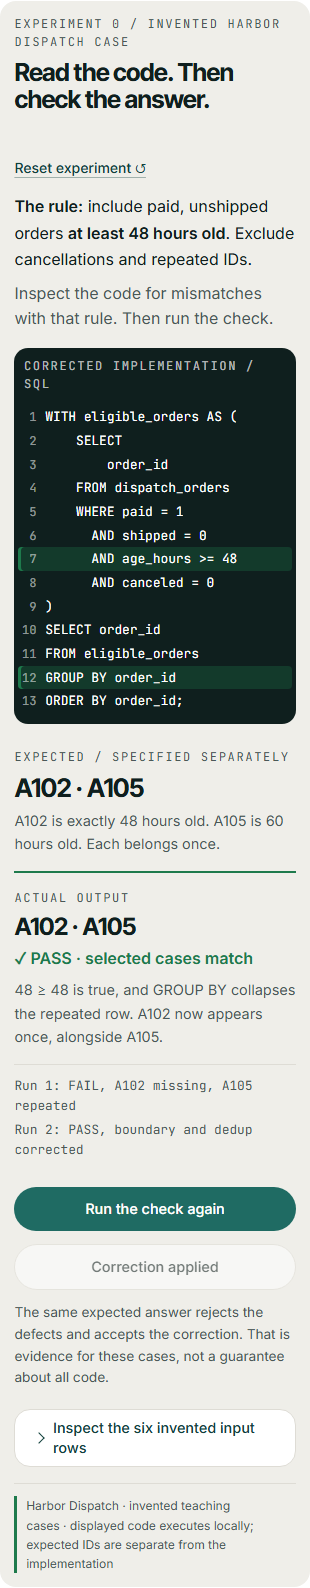
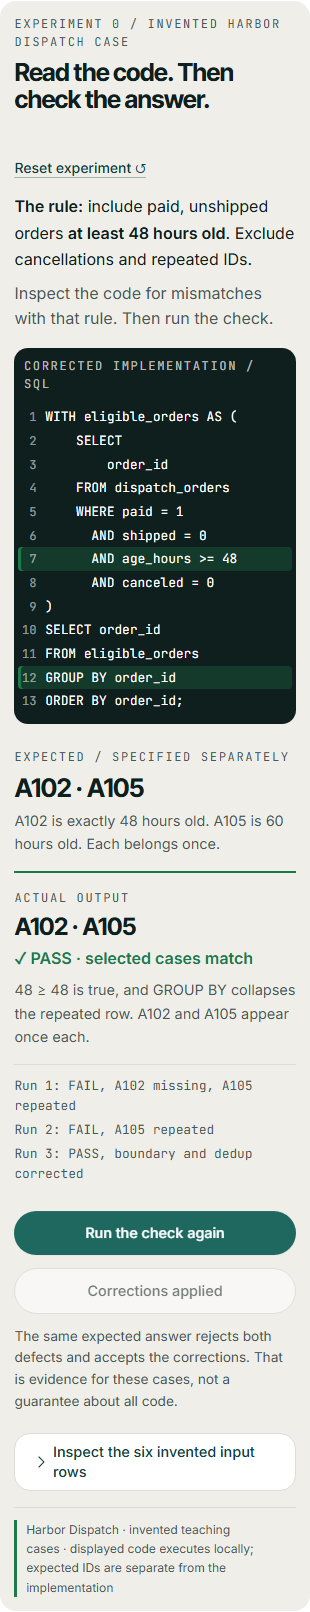
Gate change 3: the two corrections are applied one click at a time (D14)
Aaron, 2026-10-12, on the rendered page. The first click corrects the
boundary and reruns: A102, A105, A105, still a failure, with the lesson that
one correction exposed the second defect. The second click adds GROUP BY and
reruns: pass. Three runs stay in the history. dispatch-code.js carries
buggy, partial and fixed, each one edit from the last; the gate asserts the
derivations, every state's output and marked lines, and that SQLite executed
all three displayed strings. Renders added for the intermediate state.

Changed region(s): [[0.029, 0.0, 0.9581, 0.9874], [0.7258, 0.8948, 0.8129, 0.9257]]

diff --git a/docs/assets/playbook.js b/docs/assets/playbook.js
@@ -20,7 +20,10 @@
   const chips = values => values.map(id => `<span class="order-chip ${scenario.expectedIds.includes(id) ? '' : 'unexpected'}">${id}${scenario.expectedIds.includes(id) ? '' : ' ×'}</span>`).join('') || '<span>No orders</span>';
 
   /* ---------- Experiment 0: the code check ---------- */
-  let openingFixed = false, openingRuns = [], sqlEngine = null, sqlLoading = null, engineFailed = false;
+  // openingStage: 0 = defective query, 1 = boundary corrected, 2 = GROUP BY added. Each
+  // correction is one click and one rerun, so the history shows what each fix changed.
+  let openingStage = 0, openingRuns = [], sqlEngine = null, sqlLoading = null, engineFailed = false;
+  const QUERIES = () => [globalThis.DispatchExample.buggy, globalThis.DispatchExample.partial, globalThis.DispatchExample.fixed];
   const runButton = $('run-opening');
   const engineSrc = runButton.dataset.engine;
 
@@ -39,14 +42,14 @@
   }
 
   function renderOpening(loading) {
-    const query = openingFixed ? globalThis.DispatchExample.fixed : globalThis.DispatchExample.buggy;
-    // After a run, the boundary line is marked in both states; the GROUP BY line exists only in the
-    // corrected state. In the defective state the missing clause has no line to mark.
+    const query = QUERIES()[openingStage];
+    // After a run, the boundary line is marked in every state; the GROUP BY line exists only once it
+    // has been added. Before that, the missing clause has no line to mark.
     $('opening-code').innerHTML = query.split('\n').map(line => `<span class="code-line ${openingRuns.length && (line.includes('age_hours') || line.startsWith('GROUP BY')) ? 'code-change' : ''}">${escapeCode(line) || ' '}</span>`).join('');
-    $('code-state').textContent = openingFixed ? 'CORRECTED IMPLEMENTATION / SQL' : 'IMPLEMENTATION / SQL';
-    document.querySelector('.code-pane').classList.toggle('corrected', openingFixed);
-    $('fix-opening').disabled = !openingRuns.length || openingFixed || !!loading || engineFailed;
-    $('fix-opening').textContent = openingFixed ? 'Correction applied' : 'Correct and rerun';
+    $('code-state').textContent = ['IMPLEMENTATION / SQL', 'BOUNDARY CORRECTED / SQL', 'CORRECTED IMPLEMENTATION / SQL'][openingStage];
+    document.querySelector('.code-pane').classList.toggle('corrected', openingStage > 0);
+    $('fix-opening').disabled = !openingRuns.length || openingStage === 2 || !!loading || engineFailed;
+    $('fix-opening').textContent = ['Correct the boundary and rerun', 'Add the GROUP BY and rerun', 'Corrections applied'][openingStage];
     runButton.disabled = !!loading || engineFailed;
     runButton.setAttribute('aria-busy', loading ? 'true' : 'false');
     runButton.textContent = loading ? 'Loading the SQL engine…' : openingRuns.length ? 'Run the check again' : 'Run the known-answer check';
@@ -60,15 +63,24 @@
       return;
     }
     const latest = openingRuns.at(-1);
+    const verdict = latest.pass ? '✓ PASS · selected cases match' : latest.stage === 0 ? '× FAIL · same count, wrong orders' : '× FAIL · A105 repeated';
+    const explain = latest.pass
+      ? '48 ≥ 48 is true, and GROUP BY collapses the repeated row. A102 and A105 appear once each.'
+      : latest.stage === 0
+        ? '48 &gt; 48 is false, so A102 is excluded, and nothing collapses the repeated A105. Two rows match the expected count and not the expected IDs.'
+        : 'A102 now appears, but nothing collapses the repeated A105. Three rows against the expected two.';
+    const label = r => r.pass ? 'PASS, boundary and dedup corrected' : r.stage === 0 ? 'FAIL, A102 missing, A105 repeated' : 'FAIL, A105 repeated';
     result.className = 'opening-result ' + (latest.pass ? 'success' : 'warning');
-    result.innerHTML = `<span class="mini-label">ACTUAL OUTPUT</span><strong>${latest.actual.join(' · ') || 'No orders'}</strong><b>${latest.pass ? '✓ PASS · selected cases match' : '× FAIL · same count, wrong orders'}</b><p>${latest.pass ? '48 ≥ 48 is true, and GROUP BY collapses the repeated row. A102 now appears once, alongside A105.' : '48 &gt; 48 is false, so A102 is excluded, and nothing collapses the repeated A105. Two rows match the expected count and not the expected IDs.'}</p><ol class="opening-history" aria-label="Runs in this experiment">${openingRuns.map((r, i) => `<li>Run ${i + 1}: ${r.pass ? 'PASS, boundary and dedup corrected' : 'FAIL, A102 missing, A105 repeated'}</li>`).join('')}</ol>`;
+    result.innerHTML = `<span class="mini-label">ACTUAL OUTPUT</span><strong>${latest.actual.join(' · ') || 'No orders'}</strong><b>${verdict}</b><p>${explain}</p><ol class="opening-history" aria-label="Runs in this experiment">${openingRuns.map((r, i) => `<li>Run ${i + 1}: ${label(r)}</li>`).join('')}</ol>`;
     $('opening-lesson').textContent = latest.pass
-      ? 'The same expected answer rejects the defects and accepts the correction. That is evidence for these cases, not a guarantee about all code.'
-      : 'Line 7 is easy to inspect here, and the missing GROUP BY has no line to inspect at all. Now imagine 400 lines across six files, written overnight by an agent, and a review on Friday afternoon. The same known-answer check still catches both errors.';
+      ? 'The same expected answer rejects both defects and accepts the corrections. That is evidence for these cases, not a guarantee about all code.'
+      : latest.stage === 0
+        ? 'Line 7 is easy to inspect here, and the missing GROUP BY has no line to inspect at all. Now imagine 400 lines across six files, written overnight by an agent, and a review on Friday afternoon. The same known-answer check still catches both errors.'
+        : 'One correction fixed the boundary and exposed the second defect: the count moved from two to three. A check that compares IDs and multiplicity says what remains.';
   }
 
   function executeOpening(engine) {
-    const query = openingFixed ? globalThis.DispatchExample.fixed : globalThis.DispatchExample.buggy;
+    const stage = openingStage, query = QUERIES()[stage];
     const db = new engine.Database();
     let actual;
     try {
@@ -78,7 +90,7 @@
     } finally { db.close(); }
     const expected = [...scenario.expectedIds].sort();
     const pass = actual.length === expected.length && actual.every((id, i) => id === expected[i]);
-    openingRuns.push({actual, pass});
+    openingRuns.push({actual, pass, stage});
     renderOpening();
   }
 
@@ -94,8 +106,8 @@
   }
 
   on('run-opening', 'click', runOpening);
-  on('fix-opening', 'click', () => { openingFixed = true; runOpening(); });
-  on('reset-opening', 'click', () => { openingFixed = false; openingRuns = []; renderOpening(); });
+  on('fix-opening', 'click', () => { if (openingStage < 2) { openingStage += 1; runOpening(); } });
+  on('reset-opening', 'click', () => { openingStage = 0; openingRuns = []; renderOpening(); });
 
   /* ---------- Experiment 1: the queue ---------- */
   const compute = ({boundary = true, canceled = true, unique = true} = {}) => {

diff --git a/docs/index.html b/docs/index.html
@@ -135,7 +135,7 @@
 )
 SELECT order_id
 FROM eligible_orders
-ORDER BY order_id;</code></pre></div><div class="answer-pane"><span class="mini-label">EXPECTED / SPECIFIED SEPARATELY</span><strong>A102 · A105</strong><p>A102 is exactly 48 hours old. A105 is 60 hours old. Each belongs once.</p><div id="opening-result" class="opening-result" aria-live="polite"><b>Not run yet</b><p>The expected IDs are fixed before this implementation is checked.</p></div></div></div><div class="opening-actions"><button type="button" class="btn btn-primary" id="run-opening" data-engine="vendor/sql.js/sql-asm.js">Run the known-answer check</button><button type="button" class="btn btn-outline" id="fix-opening" disabled>Correct and rerun</button></div><p class="chart-limit" id="opening-lesson">The check compares order IDs and multiplicity, not just the total. Reading and testing supply different evidence.</p><details class="note"><summary>Inspect the six invented input rows</summary><div class="note-body"><div class="table-wrap"><table><thead><tr><th scope="col">Order</th><th scope="col">Age</th><th scope="col">State</th><th scope="col">Purpose</th></tr></thead><tbody><tr><td>A101</td><td>47 hours</td><td>Paid, unshipped</td><td>One hour too early</td></tr><tr><td>A102</td><td>48 hours</td><td>Paid, unshipped</td><td>Exactly at the boundary</td></tr><tr><td>A103</td><td>72 hours</td><td>Canceled</td><td>Canceled, despite its age</td></tr><tr><td>A104</td><td>60 hours</td><td>Shipped</td><td>Already shipped</td></tr><tr><td>A105</td><td>60 hours</td><td>Paid, unshipped</td><td>Eligible order</td></tr><tr><td>A105</td><td>60 hours</td><td>Paid, unshipped</td><td>Repeated copy of the same order</td></tr></tbody></table></div></div></details><div class="provenance" role="note" aria-label="Provenance"><span class="segs"><span class="seg">Harbor Dispatch</span><span class="seg">invented teaching cases</span><span class="seg">displayed code executes locally; expected IDs are separate from the implementation</span></span></div></figure>
+ORDER BY order_id;</code></pre></div><div class="answer-pane"><span class="mini-label">EXPECTED / SPECIFIED SEPARATELY</span><strong>A102 · A105</strong><p>A102 is exactly 48 hours old. A105 is 60 hours old. Each belongs once.</p><div id="opening-result" class="opening-result" aria-live="polite"><b>Not run yet</b><p>The expected IDs are fixed before this implementation is checked.</p></div></div></div><div class="opening-actions"><button type="button" class="btn btn-primary" id="run-opening" data-engine="vendor/sql.js/sql-asm.js">Run the known-answer check</button><button type="button" class="btn btn-outline" id="fix-opening" disabled>Correct the boundary and rerun</button></div><p class="chart-limit" id="opening-lesson">The check compares order IDs and multiplicity, not just the total. Reading and testing supply different evidence.</p><details class="note"><summary>Inspect the six invented input rows</summary><div class="note-body"><div class="table-wrap"><table><thead><tr><th scope="col">Order</th><th scope="col">Age</th><th scope="col">State</th><th scope="col">Purpose</th></tr></thead><tbody><tr><td>A101</td><td>47 hours</td><td>Paid, unshipped</td><td>One hour too early</td></tr><tr><td>A102</td><td>48 hours</td><td>Paid, unshipped</td><td>Exactly at the boundary</td></tr><tr><td>A103</td><td>72 hours</td><td>Canceled</td><td>Canceled, despite its age</td></tr><tr><td>A104</td><td>60 hours</td><td>Shipped</td><td>Already shipped</td></tr><tr><td>A105</td><td>60 hours</td><td>Paid, unshipped</td><td>Eligible order</td></tr><tr><td>A105</td><td>60 hours</td><td>Paid, unshipped</td><td>Repeated copy of the same order</td></tr></tbody></table></div></div></details><div class="provenance" role="note" aria-label="Provenance"><span class="segs"><span class="seg">Harbor Dispatch</span><span class="seg">invented teaching cases</span><span class="seg">displayed code executes locally; expected IDs are separate from the implementation</span></span></div></figure>
   </div>
 </section>
 

diff --git a/docs/assets/dispatch-code.js b/docs/assets/dispatch-code.js
@@ -1,8 +1,8 @@
 /* Displayed SQL and executed SQL share these exact query strings.
    The defective query carries two rule mismatches: `>` where the rule says
    "at least" (line 7), and no clause collapsing repeated order IDs. The
-   correction changes the operator and adds GROUP BY order_id; nothing else
-   differs (decision record D14). */
+   corrections are applied one at a time: `partial` fixes the operator only,
+   `fixed` adds GROUP BY order_id. Nothing else differs (decision record D14). */
 (() => {
   const buggy = `WITH eligible_orders AS (
     SELECT
@@ -16,8 +16,7 @@
 SELECT order_id
 FROM eligible_orders
 ORDER BY order_id;`;
-  const fixed = buggy
-    .replace('age_hours > 48', 'age_hours >= 48')
-    .replace('FROM eligible_orders\nORDER BY order_id;', 'FROM eligible_orders\nGROUP BY order_id\nORDER BY order_id;');
-  globalThis.DispatchExample=Object.freeze({buggy,fixed});
+  const partial = buggy.replace('age_hours > 48', 'age_hours >= 48');
+  const fixed = partial.replace('FROM eligible_orders\nORDER BY order_id;', 'FROM eligible_orders\nGROUP BY order_id\nORDER BY order_id;');
+  globalThis.DispatchExample=Object.freeze({buggy,partial,fixed});
 })();

diff --git a/checks/check_page.py b/checks/check_page.py
@@ -116,27 +116,40 @@ def check(browser, url, width, errors, renders, is_file):
     a(page.locator("#opening-result>strong").inner_text() == "A105 · A105", "actual defective output (two rows, same count as expected)")
     a(page.locator(".code-change").count() == 1, "only the boundary line is marked in the defective state; a missing clause has no line")
     a(page.evaluate("() => document.getElementById('opening-code').innerText.replace(/\\s/g,'')===globalThis.DispatchExample.buggy.replace(/\\s/g,'')"), "displayed defective code differs from the executed string")
-    a(page.evaluate("() => DispatchExample.buggy.replace('age_hours > 48','age_hours >= 48').replace('FROM eligible_orders\\nORDER BY order_id;','FROM eligible_orders\\nGROUP BY order_id\\nORDER BY order_id;')===DispatchExample.fixed"), "correction changes more than the boundary operator and the GROUP BY clause")
+    a(page.evaluate("() => DispatchExample.buggy.replace('age_hours > 48','age_hours >= 48')===DispatchExample.partial && DispatchExample.partial.replace('FROM eligible_orders\\nORDER BY order_id;','FROM eligible_orders\\nGROUP BY order_id\\nORDER BY order_id;')===DispatchExample.fixed"), "the two corrections change more than the operator and the GROUP BY clause")
     a(page.evaluate("() => DispatchExample.buggy.split('\\n')[6].trim()==='AND age_hours > 48'"), "line 7 is not the boundary line")
+    a(page.locator("#fix-opening").inner_text() == "Correct the boundary and rerun" and not page.locator("#fix-opening").is_disabled(), "first correction offered after a run")
     # Record what SQLite actually executes from here on (the engine is cached by sql.js).
     page.evaluate("async () => { const e = await initSqlJs(); window.__sql = []; const exec = e.Database.prototype.exec; e.Database.prototype.exec = function (q, ...r) { if (q.startsWith('WITH eligible_orders')) window.__sql.push(q); return exec.call(this, q, ...r); }; }")
+    # First correction: the boundary only. Still fails, now with three rows.
     page.locator("#fix-opening").click()
-    page.wait_for_function("() => document.querySelector('#opening-result').innerText.includes('PASS')")
-    a("PASS \u00b7 selected cases match" in page.locator("#opening-result").inner_text(), "correction passes the known answer")
-    a(page.locator("#opening-result>strong").inner_text() == "A102 \u00b7 A105", "corrected IDs")
-    a(page.locator(".opening-history li").count() == 2, "original failure not retained")
-    a(page.locator(".code-change").count() == 2, "both corrected lines marked (boundary and GROUP BY)")
-    a(page.locator("#fix-opening").is_disabled() and page.locator("#fix-opening").inner_text() == "Correction applied", "correction button state after fix")
+    page.wait_for_function("() => document.querySelector('#opening-result').innerText.includes('A105 repeated') && document.querySelectorAll('.opening-history li').length === 2")
+    a(page.locator("#opening-result>strong").inner_text() == "A102 \u00b7 A105 \u00b7 A105", "boundary-only output is A102, A105, A105")
+    a("FAIL \u00b7 A105 repeated" in page.locator("#opening-result").inner_text(), "boundary-only run still fails on the repeated row")
+    a(page.locator(".code-change").count() == 1 and "BOUNDARY CORRECTED" in page.locator("#code-state").inner_text(), "boundary-only state marks line 7 alone")
+    a("exposed the second defect" in page.locator("#opening-lesson").inner_text(), "boundary-only lesson")
+    a(page.evaluate("() => document.getElementById('opening-code').innerText.replace(/\\s/g,'')===globalThis.DispatchExample.partial.replace(/\\s/g,'')"), "displayed boundary-corrected code differs from the executed string")
+    a(page.locator("#fix-opening").inner_text() == "Add the GROUP BY and rerun" and not page.locator("#fix-opening").is_disabled(), "second correction offered")
     if renders and not is_file and width in (390, 1440):
         page.add_style_tag(content="#site-header{position:static !important}")
+        page.locator("#opening-experiment").screenshot(path=str(RENDERS / ("opening-boundary-%d.png" % width)))
+    # Second correction: GROUP BY. Passes.
+    page.locator("#fix-opening").click()
+    page.wait_for_function("() => document.querySelector('#opening-result').innerText.includes('PASS')")
+    a("PASS \u00b7 selected cases match" in page.locator("#opening-result").inner_text(), "both corrections pass the known answer")
+    a(page.locator("#opening-result>strong").inner_text() == "A102 \u00b7 A105", "corrected IDs")
+    a(page.locator(".opening-history li").count() == 3, "all three runs retained")
+    a(page.locator(".code-change").count() == 2, "both corrected lines marked (boundary and GROUP BY)")
+    a(page.locator("#fix-opening").is_disabled() and page.locator("#fix-opening").inner_text() == "Corrections applied", "correction button state after both fixes")
+    if renders and not is_file and width in (390, 1440):
         page.locator("#opening-experiment").screenshot(path=str(RENDERS / ("opening-fixed-%d.png" % width)))
     a(page.evaluate("() => document.getElementById('opening-code').innerText.replace(/\\s/g,'')===globalThis.DispatchExample.fixed.replace(/\\s/g,'')"), "displayed corrected code differs from the executed string")
     page.locator("#reset-opening").click()
-    a("Not run yet" in page.locator("#opening-result").inner_text() and page.locator(".code-change").count() == 0, "opening reset")
+    a("Not run yet" in page.locator("#opening-result").inner_text() and page.locator(".code-change").count() == 0 and page.locator("#fix-opening").inner_text() == "Correct the boundary and rerun", "opening reset")
     page.locator("#run-opening").click()
     page.wait_for_function("() => document.querySelector('#opening-result').innerText.includes('FAIL')")
-    executed = page.evaluate("() => [window.__sql, DispatchExample.fixed, DispatchExample.buggy]")
-    a(executed[0] == [executed[1], executed[2]], "displayed queries are not what SQLite executed")
+    executed = page.evaluate("() => [window.__sql, DispatchExample.partial, DispatchExample.fixed, DispatchExample.buggy]")
+    a(executed[0] == [executed[1], executed[2], executed[3]], "displayed queries are not what SQLite executed")
     if renders and not is_file and width in (390, 1440):
         page.locator("#opening-experiment").screenshot(path=str(RENDERS / ("opening-failed-%d.png" % width)))
     page.locator("#reset-opening").click()
@@ -213,7 +226,7 @@ def check(browser, url, width, errors, renders, is_file):
             page.locator("#reset-queue").click()
     page.close()
     return {"mode": "file" if is_file else "http", "width": width, "scrollWidth": state["scrollWidth"], "minExhibitFont": state["minExhibitFont"], "minLabFont": state["minLabFont"],
-            "openingStates": 3, "queueCases": 8, "checkerCases": 4, "releaseCases": 32, "sqlExecutionsObserved": 2}
+            "openingStates": 4, "queueCases": 8, "checkerCases": 4, "releaseCases": 32, "sqlExecutionsObserved": 3}
 
 
 def main():

diff --git a/src/build_page.py b/src/build_page.py
@@ -213,7 +213,7 @@ def widgets(scenario, buggy):
         '<p>A102 is exactly 48 hours old. A105 is 60 hours old. Each belongs once.</p>'
         '<div id="opening-result" class="opening-result" aria-live="polite"><b>Not run yet</b><p>The expected IDs are fixed before this implementation is checked.</p></div></div></div>'
         '<div class="opening-actions"><button type="button" class="btn btn-primary" id="run-opening" data-engine="%s">Run the known-answer check</button>'
-        '<button type="button" class="btn btn-outline" id="fix-opening" disabled>Correct and rerun</button></div>'
+        '<button type="button" class="btn btn-outline" id="fix-opening" disabled>Correct the boundary and rerun</button></div>'
         '<p class="chart-limit" id="opening-lesson">The check compares order IDs and multiplicity, not just the total. Reading and testing supply different evidence.</p>'
         '%s%s</figure>'
         % (reset("reset-opening"), esc(buggy), ENGINE,
@@ -311,7 +311,7 @@ def md_widgets(scenario, buggy, fixed):
     raw_rows = [[r["id"], "%d hours" % r["age"], "Canceled" if r["canceled"] else "Shipped" if r["shipped"] else "Paid, unshipped", r["note"]] for r in scenario["rows"]]
     return {
         "opening": ("\nFictional Harbor Dispatch rule: paid, unshipped orders at least 48 hours old; exclude canceled orders and repeated IDs. Expected IDs, specified separately: A102 and A105.\n\n```sql\n"
-                    + buggy + "\n```\n\nExecuting this SQL query on the six cases returns A105 twice. The count matches the expected two and the IDs do not: 48 > 48 is false, so A102 is excluded, and nothing collapses the repeated A105 row. Correcting > to >= and adding GROUP BY order_id returns A102 and A105 once each. Line 7 is easy to inspect here, and the missing GROUP BY has no line to inspect at all. Now imagine 400 lines across six files, written overnight by an agent, and a review on Friday afternoon. The same known-answer check still catches both errors.\n\nCorrected query:\n\n```sql\n"
+                    + buggy + "\n```\n\nExecuting this SQL query on the six cases returns A105 twice. The count matches the expected two and the IDs do not: 48 > 48 is false, so A102 is excluded, and nothing collapses the repeated A105 row. Correcting > to >= alone returns A102, A105 and A105: three rows, A105 still repeated. Adding GROUP BY order_id then returns A102 and A105 once each. Line 7 is easy to inspect here, and the missing GROUP BY has no line to inspect at all. Now imagine 400 lines across six files, written overnight by an agent, and a review on Friday afternoon. The same known-answer check still catches both errors.\n\nCorrected query, after both corrections:\n\n```sql\n"
                     + fixed + "\n```\n" + md_table(["Order", "Age", "State", "Purpose"], raw_rows)),
         "ceremony": md_table(["Level", "Regulated software (the V with full ceremony)", "AI-assisted analytics (the same V)"], CEREMONY_ROWS)
                     + "\nThe structure survived. The records moved into the repository. A commit identifies the version; the acceptance record names the decision and the owner.\n",
@@ -372,7 +372,8 @@ def build():
     scenario = json.loads(SCENARIO.read_text(encoding="utf-8"))
     js = CODE.read_text(encoding="utf-8")
     buggy = re.search(r"const buggy = `(.*?)`;", js, re.S).group(1)
-    fixed = buggy.replace("age_hours > 48", "age_hours >= 48").replace("FROM eligible_orders\nORDER BY order_id;", "FROM eligible_orders\nGROUP BY order_id\nORDER BY order_id;")
+    partial = buggy.replace("age_hours > 48", "age_hours >= 48")
+    fixed = partial.replace("FROM eligible_orders\nORDER BY order_id;", "FROM eligible_orders\nGROUP BY order_id\nORDER BY order_id;")
     assert buggy.count("age_hours > 48") == 1 and "GROUP BY" not in buggy and fixed.count("GROUP BY order_id") == 1
     assert buggy.split("\n")[6].strip() == "AND age_hours > 48", "line 7 must be the boundary line; the lesson text names it"
     manuscript = MANUSCRIPT.read_text(encoding="utf-8")
@@ -447,7 +448,7 @@ def build():
         "| `content/manuscript.md` | The accepted v5 manuscript. Every sentence on the page comes from here, verbatim. |\n"
         "| `docs/index.html` | The page, generated by `src/build_page.py` from the manuscript and `docs/template.html`. Published to the URL above from `main`. |\n"
         "| `docs/assets/dispatch-scenario.json` | The six invented input rows and the expected IDs, specified separately from any implementation. |\n"
-        "| `docs/assets/dispatch-code.js` | The two SQL query strings. The defective one has `>` where the rule says at least, and no clause collapsing repeated IDs; the correction changes the operator and adds `GROUP BY order_id`, nothing else. |\n"
+        "| `docs/assets/dispatch-code.js` | The two SQL query strings. The defective one has `>` where the rule says at least, and no clause collapsing repeated IDs; the corrections are applied one click at a time, the operator first, then `GROUP BY order_id`, and nothing else changes. |\n"
         "| `docs/assets/playbook.js`, `playbook.css` | The experiments and the page's own styles. The SQLite engine loads on the first click of the run button. |\n"
         "| `docs/vendor/sql.js/` | sql.js 1.14.2 (SQLite compiled to asm.js), its MIT license and `provenance.json` with the archive integrity and file hashes. |\n"
         "| `docs/assets/felix.src.css`, `felix.css` | The Felix design system's tokens and components, compiled by the Tailwind v4 CLI. Felix itself is referenced, not copied; see the decision record. |\n"

diff --git a/README.md b/README.md
@@ -31,9 +31,9 @@ FROM eligible_orders
 ORDER BY order_id;
 ```
 
-Executing this SQL query on the six cases returns A105 twice. The count matches the expected two and the IDs do not: 48 > 48 is false, so A102 is excluded, and nothing collapses the repeated A105 row. Correcting > to >= and adding GROUP BY order_id returns A102 and A105 once each. Line 7 is easy to inspect here, and the missing GROUP BY has no line to inspect at all. Now imagine 400 lines across six files, written overnight by an agent, and a review on Friday afternoon. The same known-answer check still catches both errors.
+Executing this SQL query on the six cases returns A105 twice. The count matches the expected two and the IDs do not: 48 > 48 is false, so A102 is excluded, and nothing collapses the repeated A105 row. Correcting > to >= alone returns A102, A105 and A105: three rows, A105 still repeated. Adding GROUP BY order_id then returns A102 and A105 once each. Line 7 is easy to inspect here, and the missing GROUP BY has no line to inspect at all. Now imagine 400 lines across six files, written overnight by an agent, and a review on Friday afternoon. The same known-answer check still catches both errors.
 
-Corrected query:
+Corrected query, after both corrections:
 
 ```sql
 WITH eligible_orders AS (
@@ -213,7 +213,7 @@ Across ten modules, the checks developed build by build. The [Build by Build mat
 | `content/manuscript.md` | The accepted v5 manuscript. Every sentence on the page comes from here, verbatim. |
 | `docs/index.html` | The page, generated by `src/build_page.py` from the manuscript and `docs/template.html`. Published to the URL above from `main`. |
 | `docs/assets/dispatch-scenario.json` | The six invented input rows and the expected IDs, specified separately from any implementation. |
-| `docs/assets/dispatch-code.js` | The two SQL query strings. The defective one has `>` where the rule says at least, and no clause collapsing repeated IDs; the correction changes the operator and adds `GROUP BY order_id`, nothing else. |
+| `docs/assets/dispatch-code.js` | The two SQL query strings. The defective one has `>` where the rule says at least, and no clause collapsing repeated IDs; the corrections are applied one click at a time, the operator first, then `GROUP BY order_id`, and nothing else changes. |
 | `docs/assets/playbook.js`, `playbook.css` | The experiments and the page's own styles. The SQLite engine loads on the first click of the run button. |
 | `docs/vendor/sql.js/` | sql.js 1.14.2 (SQLite compiled to asm.js), its MIT license and `provenance.json` with the archive integrity and file hashes. |
 | `docs/assets/felix.src.css`, `felix.css` | The Felix design system's tokens and components, compiled by the Tailwind v4 CLI. Felix itself is referenced, not copied; see the decision record. |

diff --git a/CLAUDE.md b/CLAUDE.md
@@ -41,10 +41,12 @@ failure, because the author block may legitimately carry none.
 derived from the query under test.** The displayed SQL is the executed SQL:
 `docs/assets/dispatch-code.js` holds both query strings. The defective one
 carries two rule mismatches, `>` where the rule says at least (line 7, and
-the lesson text names that line) and no clause collapsing repeated IDs; the
-correction changes the operator and adds `GROUP BY order_id`, and nothing
-else differs (D14). The defective run returns two rows, the expected count,
-with the wrong IDs. The check compares IDs and multiplicity, not counts. The defective line is not highlighted until
+the lesson text names that line) and no clause collapsing repeated IDs. The
+corrections are applied one click at a time, each click a rerun: the
+operator first (three rows, A105 still repeated), then `GROUP BY order_id`
+(pass). Nothing else differs between the three strings (D14). The defective
+run returns two rows, the expected count, with the wrong IDs. The check
+compares IDs and multiplicity, not counts. The defective line is not highlighted until
 a run; the correction button is disabled until a run; failed and corrected
 runs both stay in the visible history; each experiment resets independently.
 

diff --git a/governance/decision-record.md b/governance/decision-record.md
@@ -269,8 +269,17 @@ gate's assertions, the README's generated opening text, `CLAUDE.md`. Not
 changed: the scenario, the expected IDs, the manuscript, the exhibits, the
 panel record (Experiment 0 is outside its scope).
 
+*Amended the same day, also at the gate:* the two corrections are applied
+**one click at a time**, each click a rerun. The first click fixes the
+boundary only and the check still fails, now with three rows (A102, A105,
+A105); the second adds GROUP BY and passes. Three runs stay in the history,
+so the reader sees that one correction exposed the second defect rather
+than both vanishing at once. `dispatch-code.js` carries three strings
+(`buggy`, `partial`, `fixed`), each derived from the last by one edit.
+
 *Counterfactual:* keep one defect, or show GROUP BY without making it a
-defect, which teaches nothing the reader has to find.
+defect, which teaches nothing the reader has to find; or one click for both
+corrections, which hides the step where fixing one thing changes the count.
 
 **Carried by:** `docs/assets/dispatch-code.js`; `docs/assets/playbook.js`;
 `src/build_page.py`; `checks/check_page.py`.
